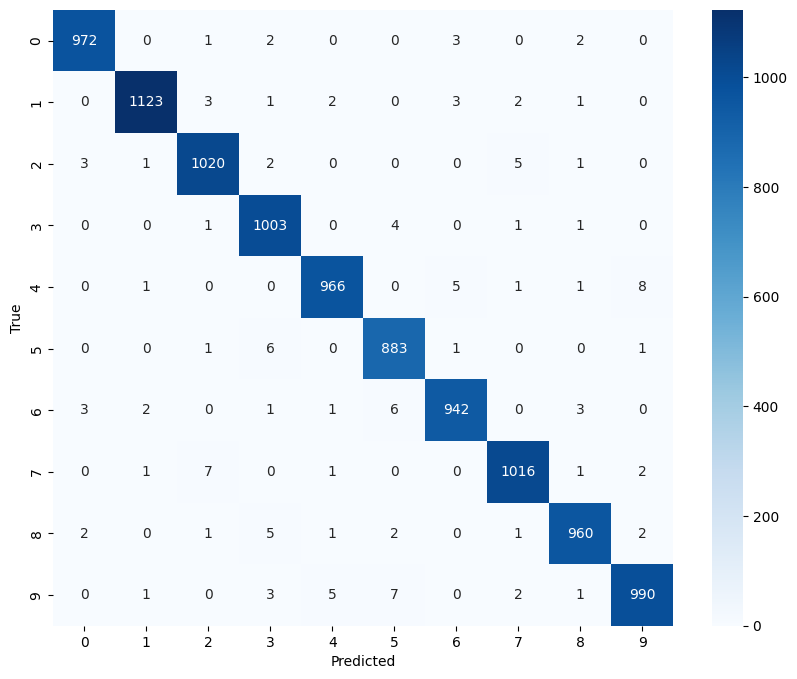
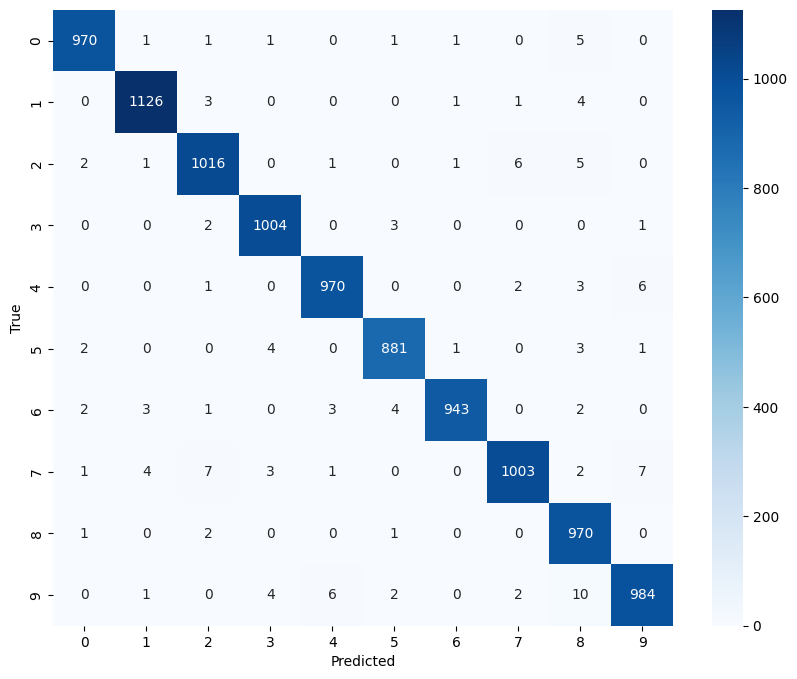
Final report edits.

diff --git a/Assignment4.md b/Assignment4.md
@@ -34,24 +34,26 @@ The model has six (6) layers:
 | `flatten_1`       |          0 |
 | `dense_1`         |      7,850 |
 
-The CNN demonstrated a training accuracy of **99.92%**, and a test accuracy of **[insert here]**, with epochs set to 100. The confusion matrix is displayed in Figure 1.
+The CNN demonstrated a training accuracy of **99.92%**, and a test accuracy of **98.67%**, with epochs set to 100. The confusion matrix is displayed in Figure 1.
 
 ![Confusion Matrix of CNN](./assets/CNN_confusion_matrix.png)
 
 ## Extracting Feature Vectors & Applying kNN
 
-Feature vectors of the dataset were extracted from the Flattened layer, and KNN using Euclidean distance and $k = 5$. The KNN model displayed an accuracy of **98.63%**
+Feature vectors of the dataset were extracted from the Flattened layer, and kNN using Euclidean distance and $k = 5$. The kNN model displayed a test accuracy of **98.63%**.
+
+The size of the final extracted feature vector was **940**.
 
 ## Representation of Primary Features Via PCA
 
-PCA was applied to the entire dataset, flattening it to a single vector. Then mapped to a single 2-dimensional vector of the principle features, and plotted in the scatterplot bellow. Each unique class is shown using a distinct colour.
+PCA was applied to the entire test dataset, flattening it to a single vector. Then mapped to a single 2-dimensional vector of the principle features, and plotted in the scatterplot bellow. Each unique class is shown using a distinct colour.
 
 ![Visualisation of the Dataset's Primary Features](./assets/PCA_visualisation.png)
 
 ## PCA + kNN Report
 
-After performing the PCA again, but with 10 components, KNN was used with $k = 5$. The model reported a test accuracy of 96.47%.
+After performing the PCA again, but extracting 10 components, kNN was used with $k = 5$ and Euclidean distance. The model reported a test accuracy of 96.47%.
 
 ## Conclusion
 
-
+In conclusion, the CNN classifier demonstrated an accuracy of 98.67% on the test set, with low mis-classification rates. Extracted features from the CNN model performed significantly better than features extracted from PCA.
